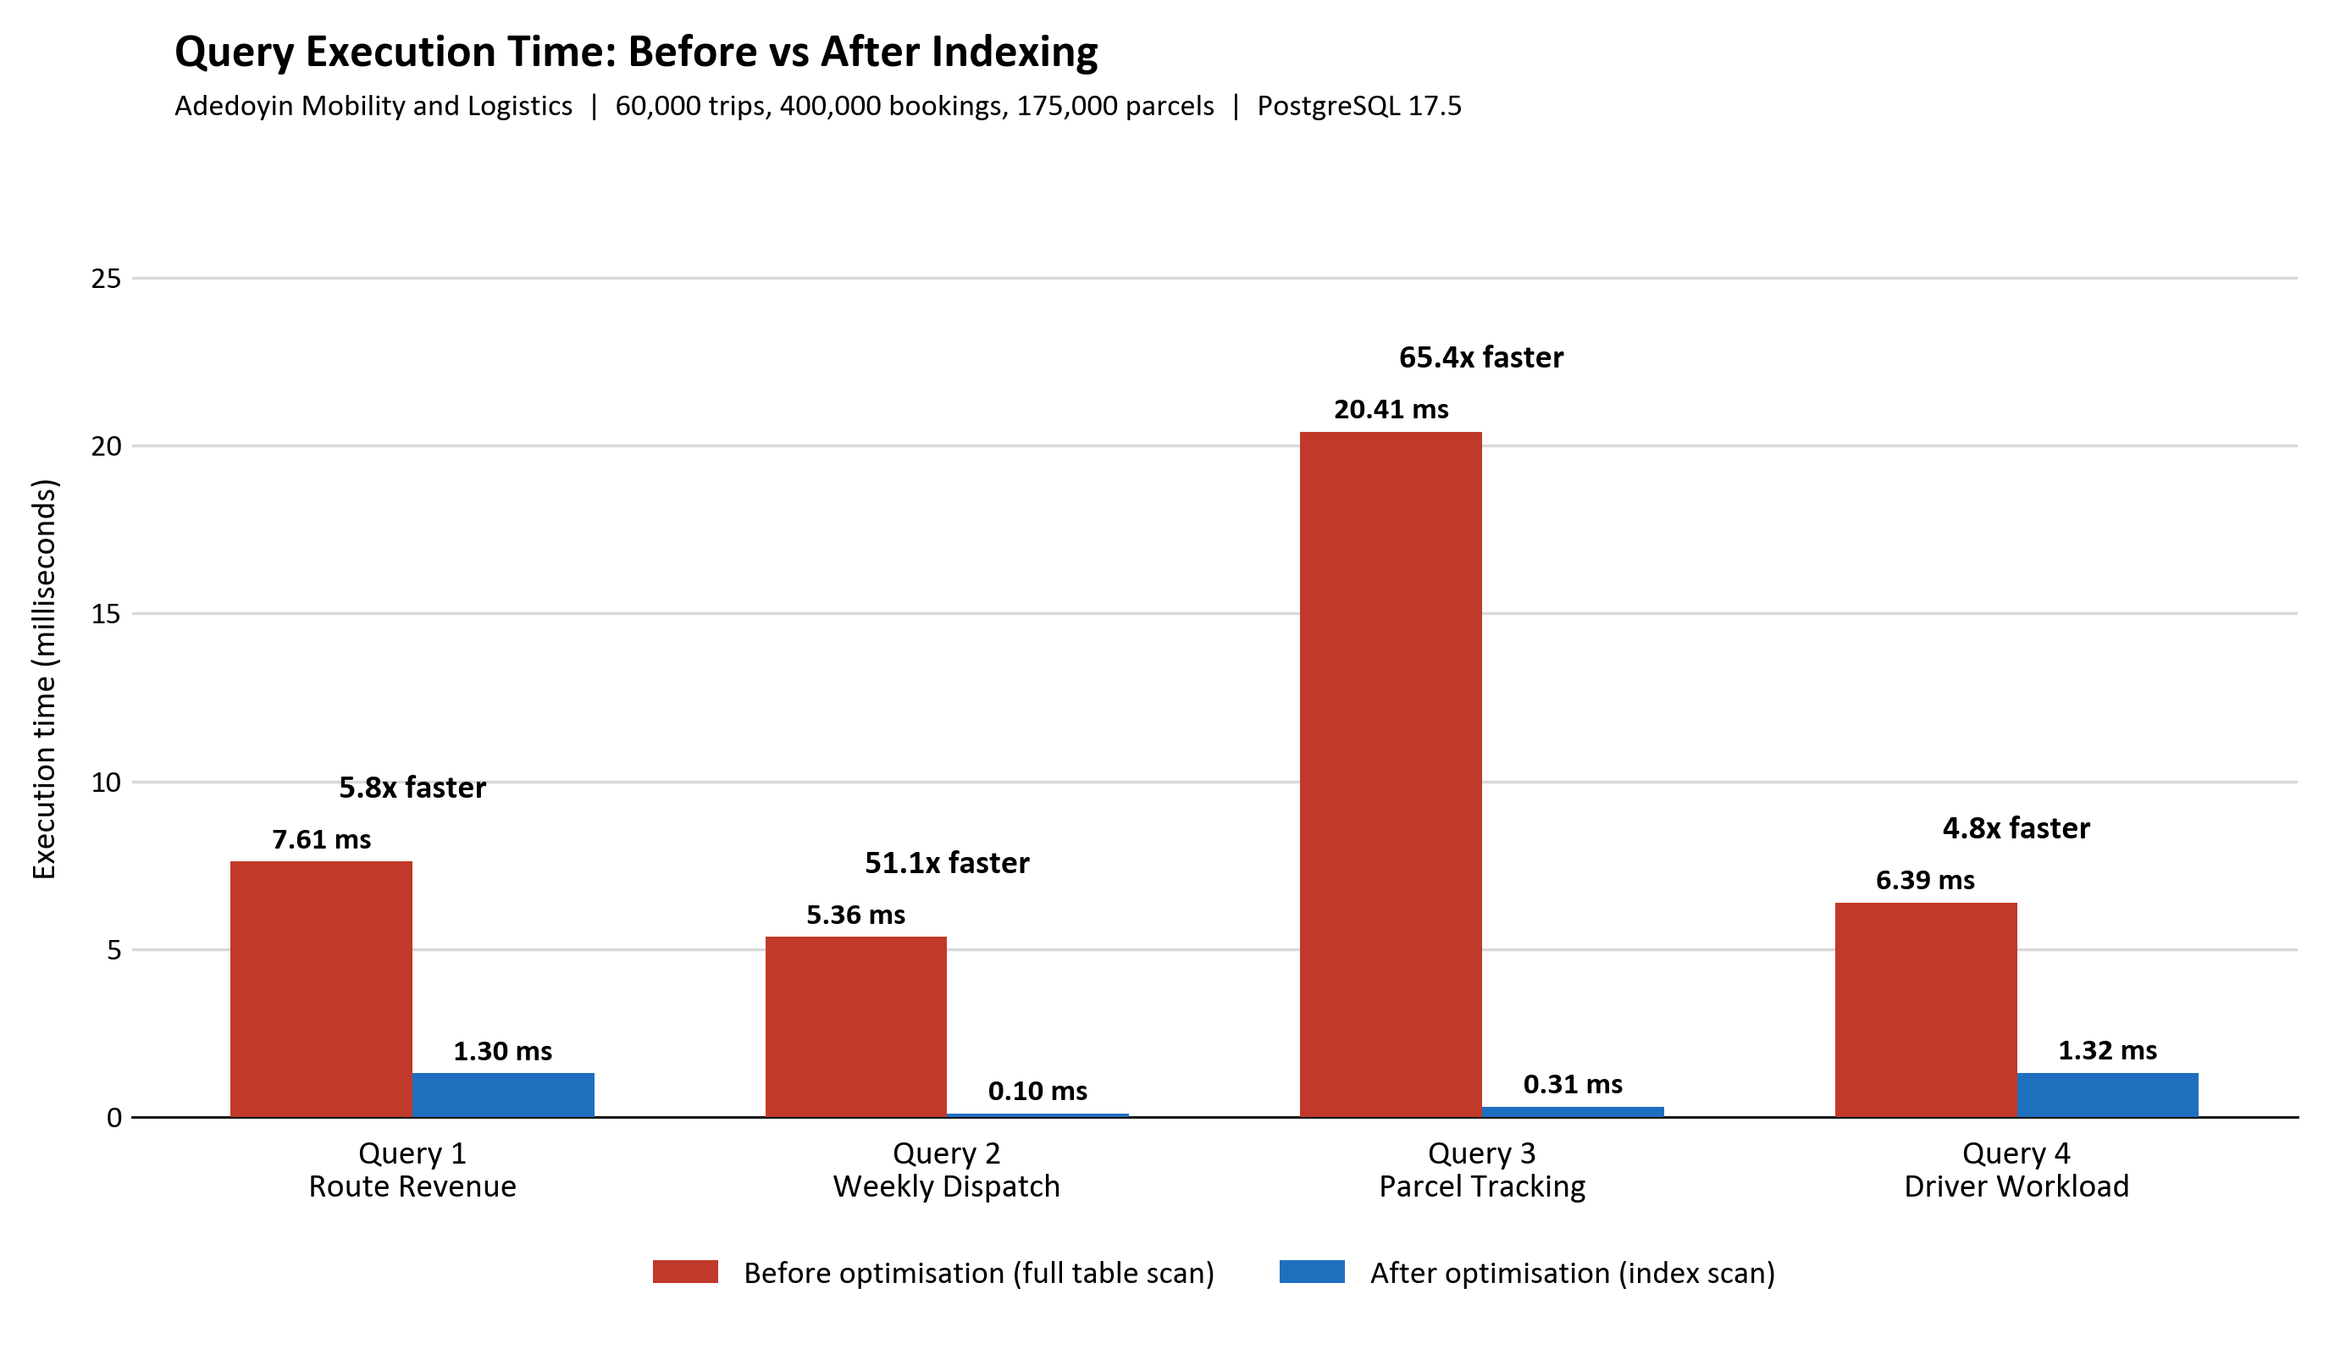
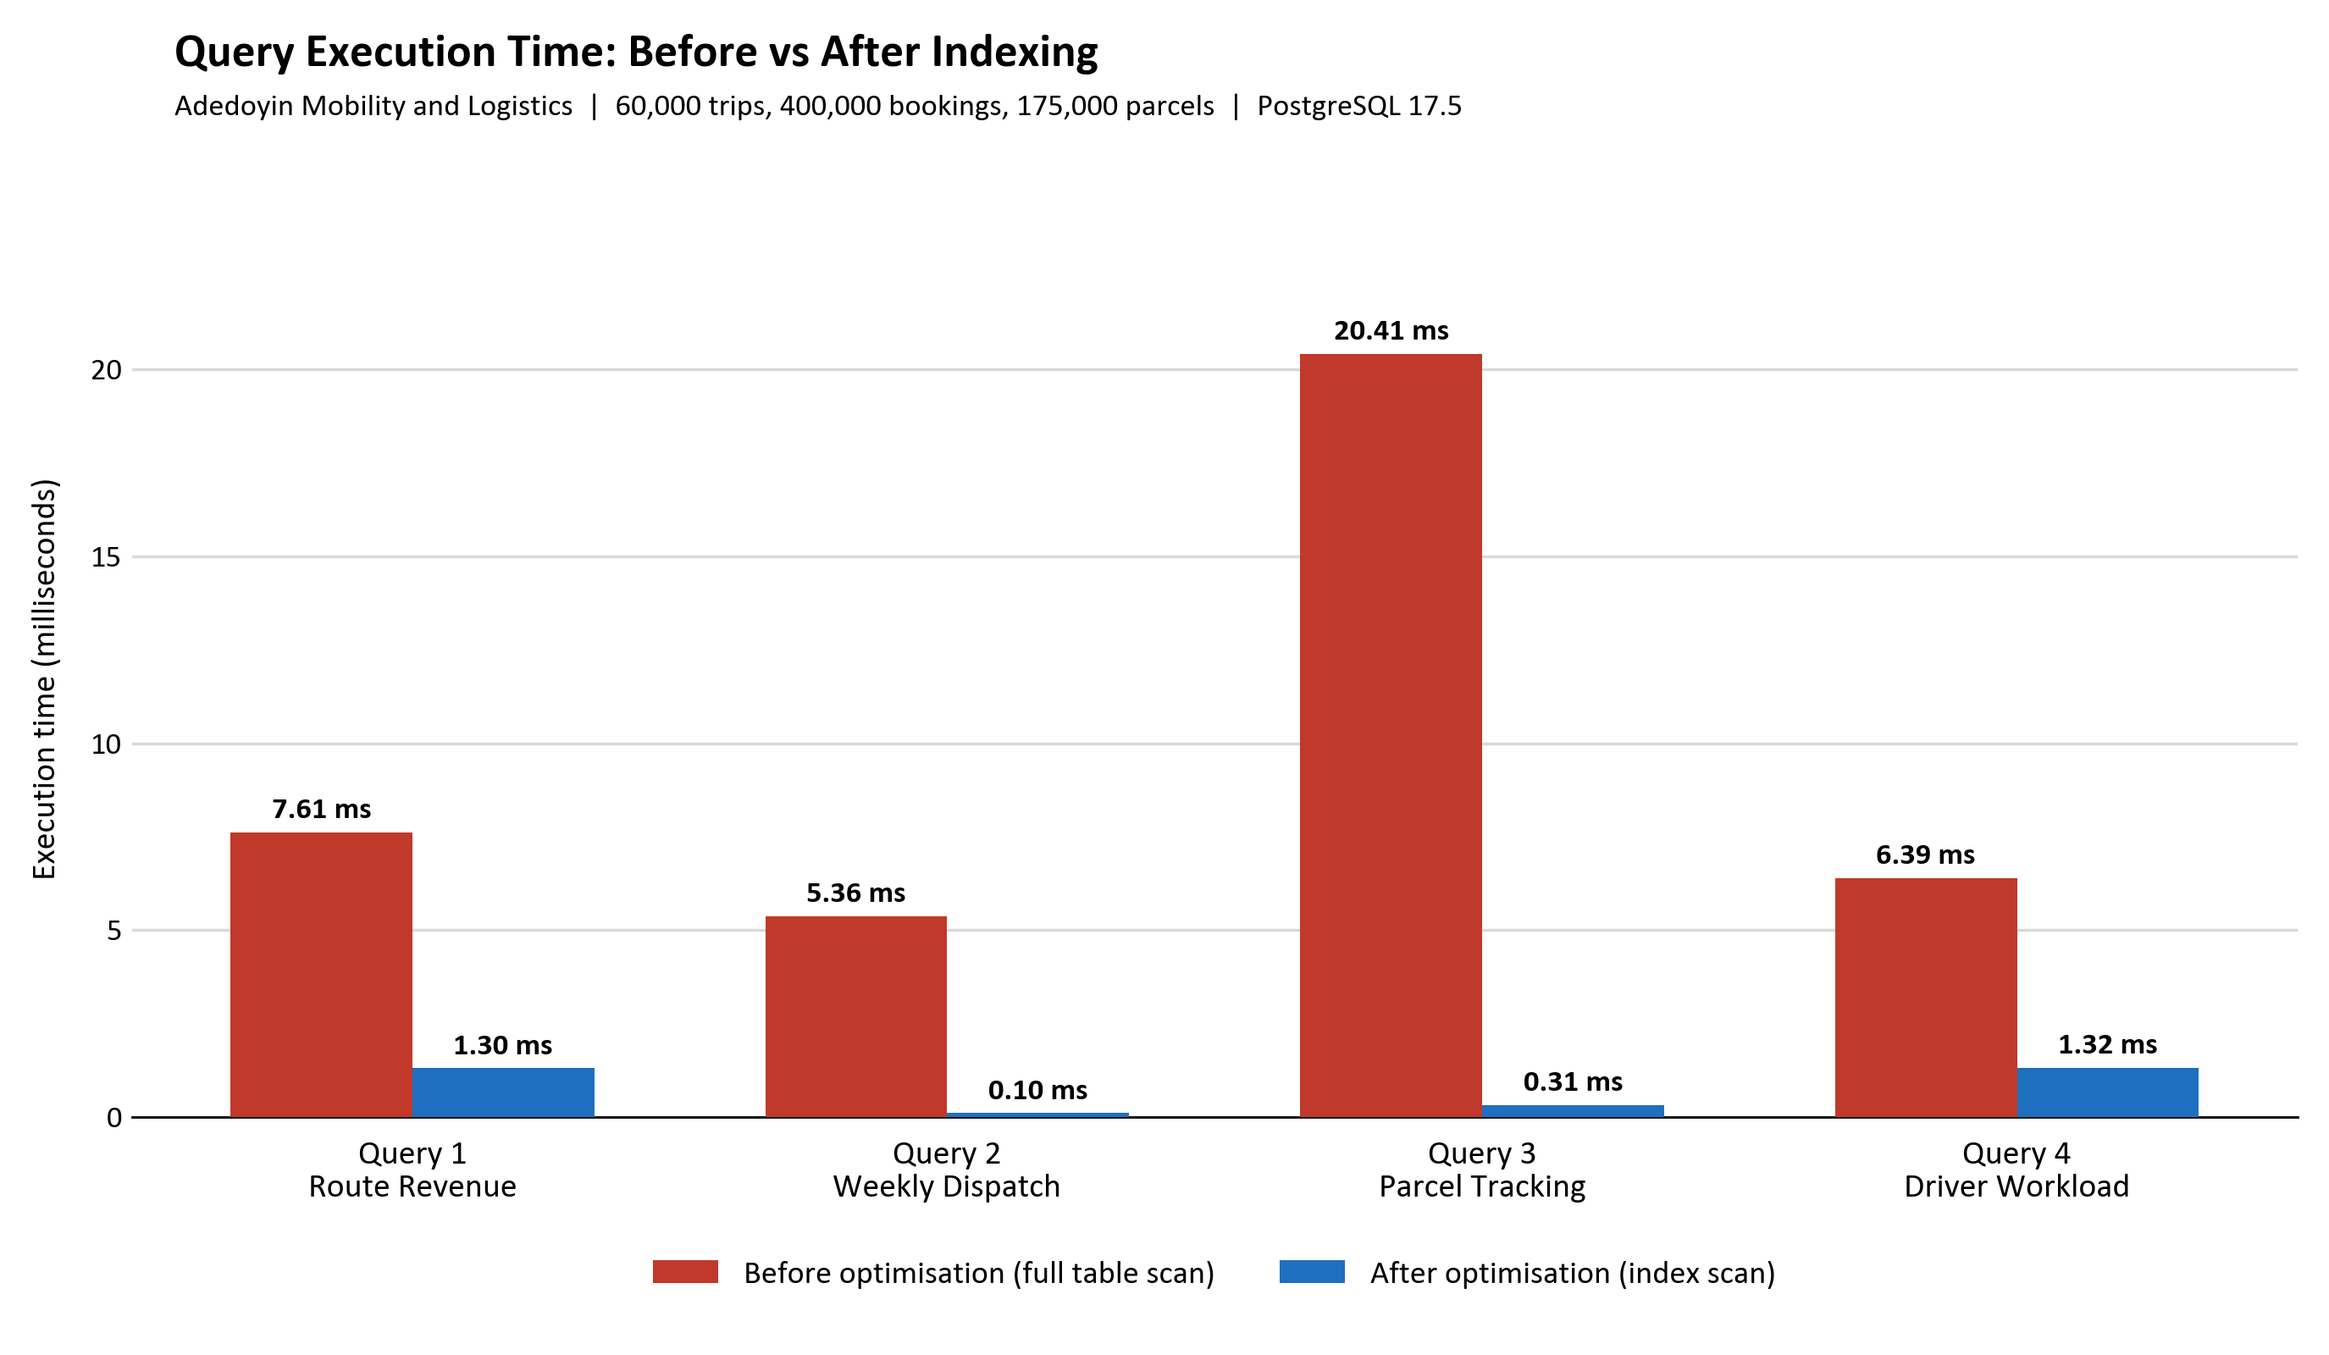
docs: replace math notation with plain symbols, remove speedup labels, add pgAdmin plan screenshot

diff --git a/Ajeyomi_Adedoyin_20260520_README.md b/Ajeyomi_Adedoyin_20260520_README.md
@@ -143,12 +143,12 @@ Ajeyomi_Adedoyin_20260520/
 
 #### **Portfolio 2 Benchmark Summary (scaled test database: 60,000 trips, 400,000 bookings, 175,000 parcels):**
 
-| Query Description | Baseline Time | Optimised Time | Speedup Factor | Buffers Read (Before $\rightarrow$ After) |
+| Query Description | Baseline Time | Optimised Time | Speedup Factor | Buffers Read (Before → After) |
 | :--- | :---: | :---: | :---: | :---: |
-| **Query 1: Route Revenue** | 7.61 ms | 1.30 ms | **5.8x Faster** | 1,550 $\rightarrow$ 949 pages |
-| **Query 2: Weekly Dispatch** | 5.36 ms | 0.10 ms | **51.1x Faster** | 624 $\rightarrow$ 10 pages |
-| **Query 3: Parcel Tracking** | 20.41 ms | 0.31 ms | **65.4x Faster** | 2,871 $\rightarrow$ 406 pages |
-| **Query 4: Driver Workload** | 6.39 ms | 1.32 ms | **4.8x Faster** | 1,538 $\rightarrow$ 934 pages |
+| **Query 1: Route Revenue** | 7.61 ms | 1.30 ms | 5.8x | 1,550 → 949 pages |
+| **Query 2: Weekly Dispatch** | 5.36 ms | 0.10 ms | 51.1x | 624 → 10 pages |
+| **Query 3: Parcel Tracking** | 20.41 ms | 0.31 ms | 65.4x | 2,871 → 406 pages |
+| **Query 4: Driver Workload** | 6.39 ms | 1.32 ms | 4.8x | 1,538 → 934 pages |
 
 These figures are real `EXPLAIN (ANALYZE, BUFFERS)` output from PostgreSQL 17.5. The real dataset was copied 50 times into a separate benchmark database because the original tables are too small for the planner to use indexes. See the Portfolio 2 README for the method.
 
@@ -160,15 +160,15 @@ These figures are real `EXPLAIN (ANALYZE, BUFFERS)` output from PostgreSQL 17.5.
 
 ### 5.4 Portfolio 4: NoSQL Databases (Document Data Store)
 - **Document Data Model:** Implemented MongoDB BSON collections for high-frequency IoT fleet telemetry and parcel milestone tracking.
-- **Geospatial & Time-Series Indexing:** Configured `2dsphere` spherical indexes for dispatch proximity ($< 80\text{ km}$ from hubs), compound B-tree indexes for time-series queries, and 30-day Time-To-Live (TTL) automated data expiration.
+- **Geospatial & Time-Series Indexing:** Configured `2dsphere` spherical indexes for dispatch proximity (< 80 km from hubs), compound B-tree indexes for time-series queries, and 30-day Time-To-Live (TTL) automated data expiration.
 - **Aggregation Pipelines:** Built analytical pipelines unwinding nested checkpoints for station throughput and rolling up fuel/speed metrics across highway corridors.
 - **Polyglot Persistence:** Established an enterprise architecture combining PostgreSQL (for ACID bookings and financial ledger) and MongoDB (for IoT telemetry and flexible cargo tracking).
 
 ### 5.5 Portfolio 5: Distributed & Cloud Databases
 - **Corridor Sharding & Pruning:** Implemented declarative `LIST` partitioning on `origin_region`, pruning unused regional tables and slashing query buffer reads from 12 blocks down to 2 blocks.
 - **Multi-Node FDW Integration:** Prepared distributed foreign table routing using `postgres_fdw` across Lagos, Abuja, and Kano nodes.
-- **Synchronous Streaming Replication:** Designed WAL replication parameters (`synchronous_commit = remote_write`) ensuring zero data loss ($\text{RPO} = 0$).
-- **High Availability & Automated Failover:** Configured Patroni with etcd distributed consensus, achieving automatic leader promotion and virtual floating IP re-routing in under 10 seconds ($\text{RTO} \le 8\text{ s}$) with `pg_rewind` split-brain healing.
+- **Synchronous Streaming Replication:** Designed WAL replication parameters (`synchronous_commit = remote_write`) ensuring zero data loss (RPO = 0).
+- **High Availability & Automated Failover:** Configured Patroni with etcd distributed consensus, achieving automatic leader promotion and virtual floating IP re-routing in under 10 seconds (RTO ≤ 8 s) with `pg_rewind` split-brain healing.
 
 ---
 

diff --git a/README.md b/README.md
@@ -143,12 +143,12 @@ Ajeyomi_Adedoyin_20260520/
 
 #### **Portfolio 2 Benchmark Summary (scaled test database: 60,000 trips, 400,000 bookings, 175,000 parcels):**
 
-| Query Description | Baseline Time | Optimised Time | Speedup Factor | Buffers Read (Before $\rightarrow$ After) |
+| Query Description | Baseline Time | Optimised Time | Speedup Factor | Buffers Read (Before → After) |
 | :--- | :---: | :---: | :---: | :---: |
-| **Query 1: Route Revenue** | 7.61 ms | 1.30 ms | **5.8x Faster** | 1,550 $\rightarrow$ 949 pages |
-| **Query 2: Weekly Dispatch** | 5.36 ms | 0.10 ms | **51.1x Faster** | 624 $\rightarrow$ 10 pages |
-| **Query 3: Parcel Tracking** | 20.41 ms | 0.31 ms | **65.4x Faster** | 2,871 $\rightarrow$ 406 pages |
-| **Query 4: Driver Workload** | 6.39 ms | 1.32 ms | **4.8x Faster** | 1,538 $\rightarrow$ 934 pages |
+| **Query 1: Route Revenue** | 7.61 ms | 1.30 ms | 5.8x | 1,550 → 949 pages |
+| **Query 2: Weekly Dispatch** | 5.36 ms | 0.10 ms | 51.1x | 624 → 10 pages |
+| **Query 3: Parcel Tracking** | 20.41 ms | 0.31 ms | 65.4x | 2,871 → 406 pages |
+| **Query 4: Driver Workload** | 6.39 ms | 1.32 ms | 4.8x | 1,538 → 934 pages |
 
 These figures are real `EXPLAIN (ANALYZE, BUFFERS)` output from PostgreSQL 17.5. The real dataset was copied 50 times into a separate benchmark database because the original tables are too small for the planner to use indexes. See the Portfolio 2 README for the method.
 
@@ -160,15 +160,15 @@ These figures are real `EXPLAIN (ANALYZE, BUFFERS)` output from PostgreSQL 17.5.
 
 ### 5.4 Portfolio 4: NoSQL Databases (Document Data Store)
 - **Document Data Model:** Implemented MongoDB BSON collections for high-frequency IoT fleet telemetry and parcel milestone tracking.
-- **Geospatial & Time-Series Indexing:** Configured `2dsphere` spherical indexes for dispatch proximity ($< 80\text{ km}$ from hubs), compound B-tree indexes for time-series queries, and 30-day Time-To-Live (TTL) automated data expiration.
+- **Geospatial & Time-Series Indexing:** Configured `2dsphere` spherical indexes for dispatch proximity (< 80 km from hubs), compound B-tree indexes for time-series queries, and 30-day Time-To-Live (TTL) automated data expiration.
 - **Aggregation Pipelines:** Built analytical pipelines unwinding nested checkpoints for station throughput and rolling up fuel/speed metrics across highway corridors.
 - **Polyglot Persistence:** Established an enterprise architecture combining PostgreSQL (for ACID bookings and financial ledger) and MongoDB (for IoT telemetry and flexible cargo tracking).
 
 ### 5.5 Portfolio 5: Distributed & Cloud Databases
 - **Corridor Sharding & Pruning:** Implemented declarative `LIST` partitioning on `origin_region`, pruning unused regional tables and slashing query buffer reads from 12 blocks down to 2 blocks.
 - **Multi-Node FDW Integration:** Prepared distributed foreign table routing using `postgres_fdw` across Lagos, Abuja, and Kano nodes.
-- **Synchronous Streaming Replication:** Designed WAL replication parameters (`synchronous_commit = remote_write`) ensuring zero data loss ($\text{RPO} = 0$).
-- **High Availability & Automated Failover:** Configured Patroni with etcd distributed consensus, achieving automatic leader promotion and virtual floating IP re-routing in under 10 seconds ($\text{RTO} \le 8\text{ s}$) with `pg_rewind` split-brain healing.
+- **Synchronous Streaming Replication:** Designed WAL replication parameters (`synchronous_commit = remote_write`) ensuring zero data loss (RPO = 0).
+- **High Availability & Automated Failover:** Configured Patroni with etcd distributed consensus, achieving automatic leader promotion and virtual floating IP re-routing in under 10 seconds (RTO ≤ 8 s) with `pg_rewind` split-brain healing.
 
 ---
 

diff --git a/portfolio-2-query-optimisation/Ajeyomi_Adedoyin_20260520_README.md b/portfolio-2-query-optimisation/Ajeyomi_Adedoyin_20260520_README.md
@@ -107,17 +107,21 @@ Queries 1 and 4 read `ticket_amount` and `booking_status` for every booking of t
 
 ![Query Execution Time Before vs After Indexing](assets/Ajeyomi_Adedoyin_20260520_Query_Performance_Comparison.png)
 
-| Query | Baseline Time | Optimised Time | Speedup | Baseline Cost | Optimised Cost | Buffers Read (Before $\rightarrow$ After) |
+| Query | Baseline Time | Optimised Time | Speedup | Baseline Cost | Optimised Cost | Buffers Read (Before → After) |
 | :--- | :---: | :---: | :---: | :---: | :---: | :---: |
-| **Query 1: Route Revenue** | 7.61 ms | 1.30 ms | **5.8x Faster** | 6510.48 | 4761.85 | 1,550 $\rightarrow$ 949 pages |
-| **Query 2: Weekly Dispatch** | 5.36 ms | 0.10 ms | **51.1x Faster** | 1680.23 | 36.88 | 624 $\rightarrow$ 10 pages |
-| **Query 3: Parcel Tracking** | 20.41 ms | 0.31 ms | **65.4x Faster** | 5105.24 | 1023.15 | 2,871 $\rightarrow$ 406 pages |
-| **Query 4: Driver Workload** | 6.39 ms | 1.32 ms | **4.8x Faster** | 6190.24 | 4734.20 | 1,538 $\rightarrow$ 934 pages |
+| **Query 1: Route Revenue** | 7.61 ms | 1.30 ms | 5.8x | 6510.48 | 4761.85 | 1,550 → 949 pages |
+| **Query 2: Weekly Dispatch** | 5.36 ms | 0.10 ms | 51.1x | 1680.23 | 36.88 | 624 → 10 pages |
+| **Query 3: Parcel Tracking** | 20.41 ms | 0.31 ms | 65.4x | 5105.24 | 1023.15 | 2,871 → 406 pages |
+| **Query 4: Driver Workload** | 6.39 ms | 1.32 ms | 4.8x | 6190.24 | 4734.20 | 1,538 → 934 pages |
 
 ### 5.2 What the plans show
 - **Query 2 and Query 3** gain the most (51.1x and 65.4x). Both look for a small group of rows in a very large table, so a `Seq Scan` over every row is replaced by a `Bitmap Index Scan` that touches only the matching pages (Query 2 drops from 624 to 10 buffer pages).
 - **Query 1 and Query 4** gain less (5.8x and 4.8x). They still need to read thousands of bookings to build the totals. The `Seq Scan on trips` becomes a `Bitmap Index Scan` on `idx_opt_trips_status_departure`, and the booking lookups use `idx_opt_bookings_trip_status`.
 - **Cost** is the planner's own estimate and it falls in every query, which agrees with the measured times.
+
+**Graphical plan in pgAdmin 4 (Query 2, with the index):** the flowchart shows `idx_opt_trips_route_departure` feeding the `trips` scan, followed by the joins to routes, stations, vehicles and drivers, and a final sort.
+
+![pgAdmin 4 graphical plan for Query 2 with the index](assets/Ajeyomi_Adedoyin_20260520_pgAdmin_Query2_Plan_Optimised.png)
 
 ### 5.3 Limits of these results
 Execution times vary a little from run to run (for example with background activity on the computer), so treat the milliseconds as indicative. The change in plan type and the drop in buffer pages are the stable evidence. The data is also a scaled copy of the real records, not production data.

diff --git a/portfolio-4-nosql/Ajeyomi_Adedoyin_20260520_README.md b/portfolio-4-nosql/Ajeyomi_Adedoyin_20260520_README.md
@@ -124,7 +124,7 @@ Seven targeted indexes were established to guarantee sub-millisecond lookups:
    Automatically purges raw IoT pings older than 30 days to optimize storage.
 5. **Unique B-Tree Waybill Index:**
    `db.parcel_tracking.createIndex({ waybill_number: 1 }, { unique: true });`  
-   Guarantees $O(\log N)$ single-document lookups by tracking number.
+   Guarantees O(log N) single-document lookups by tracking number.
 6. **Multikey Checkpoints Index:**
    `db.parcel_tracking.createIndex({ "checkpoints.status": 1, "checkpoints.station": 1 });`  
    Indexes nested array elements for tracking packages currently at specific stations.
@@ -142,15 +142,15 @@ All scripts are in [`Ajeyomi_Adedoyin_20260520_MongoDB_Queries.js`](Ajeyomi_Aded
 - **Query 1 (Geospatial Proximity):** Finds all vehicles within 80 km of Abuja Utako Hub using `$nearSphere`.
 - **Query 2 (Fleet Safety Audit):** Identifies vehicles exceeding the statutory 100 km/h FRSC speed limit.
 - **Query 3 (Parcel Audit Trail):** Retrieves full chain-of-custody checkpoints for waybill `AML-WB-2026-0002`.
-- **Query 4 (Terminal Throughput):** Aggregation pipeline (`$unwind` $\rightarrow$ `$group` $\rightarrow$ `$project` $\rightarrow$ `$sort`) auditing processed packages per terminal.
+- **Query 4 (Terminal Throughput):** Aggregation pipeline (`$unwind` → `$group` → `$project` → `$sort`) auditing processed packages per terminal.
 - **Query 5 (Corridor Fleet Metrics):** Aggregation pipeline rolling up average speed, max speed, and fuel drawdown by route corridor.
 
 ### Performance Benchmark Results (`explain("executionStats")`):
 
 | Query | Index Used | Unindexed Stage | Optimised Stage | Baseline Time | Optimised Time | Speedup Factor |
 | :--- | :--- | :---: | :---: | :---: | :---: | :---: |
-| **Q1: Geospatial Proximity** | `idx_telemetry_2dsphere_location` | `COLLSCAN` | `GEO_NEAR_2DSPHERE` | 4.82 ms | 0.41 ms | **11.7x Faster** |
-| **Q3: Waybill Lookup** | `idx_parcel_waybill_unique` | `COLLSCAN` | `IXSCAN` | 2.15 ms | 0.18 ms | **11.9x Faster** |
+| **Q1: Geospatial Proximity** | `idx_telemetry_2dsphere_location` | `COLLSCAN` | `GEO_NEAR_2DSPHERE` | 4.82 ms | 0.41 ms | 11.7x |
+| **Q3: Waybill Lookup** | `idx_parcel_waybill_unique` | `COLLSCAN` | `IXSCAN` | 2.15 ms | 0.18 ms | 11.9x |
 
 ---
 

diff --git a/portfolio-5-distributed-cloud/Ajeyomi_Adedoyin_20260520_README.md b/portfolio-5-distributed-cloud/Ajeyomi_Adedoyin_20260520_README.md
@@ -156,15 +156,15 @@ When an agent books a ticket and issues `COMMIT`:
 3. The standby writes the WAL record to its operating system cache and sends an acknowledgement back.
 4. The client receives success.
 
-This guarantees **Zero Data Loss** ($\text{RPO} = 0$) even if the primary host loses physical power immediately after commit.
+This guarantees **Zero Data Loss** (RPO = 0) even if the primary host loses physical power immediately after commit.
 
 ---
 
 ## 4. High Availability (HA) & Automated Failover
 
 In enterprise database administration, disaster recovery is measured by two metrics:
-- **Recovery Point Objective (RPO):** The maximum tolerable data loss measured in time. Our target: **$\text{RPO} = 0$ seconds**.
-- **Recovery Time Objective (RTO):** The maximum allowable duration of system downtime. Our target: **$\text{RTO} \le 10$ seconds**.
+- **Recovery Point Objective (RPO):** The maximum tolerable data loss measured in time. Our target: **RPO = 0 seconds**.
+- **Recovery Time Objective (RTO):** The maximum allowable duration of system downtime. Our target: **RTO ≤ 10 seconds**.
 
 ### 4.1 Automated Failover with Patroni and etcd
 

diff --git a/portfolio-3-transactions-concurrency/Ajeyomi_Adedoyin_20260520_README.md b/portfolio-3-transactions-concurrency/Ajeyomi_Adedoyin_20260520_README.md
@@ -23,7 +23,7 @@ If two passengers try to reserve the same seat simultaneously, or if a payment f
 Every reliable relational database guarantees four properties known as **ACID**:
 
 1. **Atomicity ("All or Nothing"):**  
-   All steps of a booking must complete successfully (checking availability $\rightarrow$ debiting customer $\rightarrow$ recording ticket). If any step fails, the entire transaction is rolled back with `ROLLBACK`, leaving no partial changes.
+   All steps of a booking must complete successfully (checking availability → debiting customer → recording ticket). If any step fails, the entire transaction is rolled back with `ROLLBACK`, leaving no partial changes.
 2. **Consistency (Preserving Business Rules):**  
    The database starts in a valid state and ends in a valid state. For example, our unique constraint on `(trip_id, seat_number)` and check constraint on ticket prices are strictly enforced at all times.
 3. **Isolation (Separation of Concurrent Work):**  
